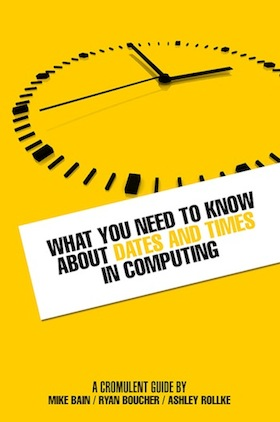
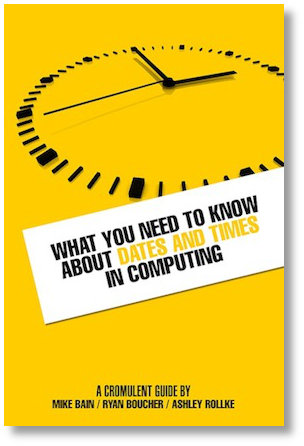
manually add drop shadow to image in gimp

diff --git a/index.html b/index.html
@@ -21,16 +21,19 @@
     <h1 class="header">Cromulent Publishing</h1>
     <h2>Buy our first book</h2>
 
-    <img src= "./dt_yellow.jpeg" class="shadowed"></img>
+    <img src="./dt_yellow.jpeg"
+    title="As you can probably tell by the title, this book explains what you need to know about dates and times in computing. The sole purpose of this book is to quickly get you up to speed on this ubiquitous and commonly misunderstood topic.
+
+This is the first in a series of Cromulent Guides. We produce concise easy to read guide(s) about technical topics. The size and price of each guide is about the same as a chapter from a normal book, so you only have to buy the bits you need at the time."></img>
 
     <h2>
-      <a href="#" target="_blank">pdf $3.50</a>
+      <a href="#">pdf $3.50</a>
      |
-      <a href="#" target="_blank">book $7.50</a>
+      <a href="#">book $7.50</a>
     </h2>
   </div>
   <div class="footer">
-    Almost silent <a href="http://twitter.com/CromulentPub">twitter</a> | Spam free <a href="http://eepurl.com/xinnr">mailing list</a>
+    Almost silent <a href="http://twitter.com/CromulentPub" >twitter</a> | Spam free <a href="http://eepurl.com/xinnr">mailing list</a>
   <div>
   <script>
     (function(i,s,o,g,r,a,m){i['GoogleAnalyticsObject']=r;i[r]=i[r]||function(){

diff --git a/cpstyle.css b/cpstyle.css
@@ -31,12 +31,3 @@ body {
   margin-right: auto;
   margin-left: auto;
 }
-
-.shadowed {
-  -webkit-filter: drop-shadow(8px 8px 12px rgba(0,0,0,0.5));
-  filter: url(#drop-shadow);
-  -ms-filter: "progid:DXImageTransform.Microsoft.Dropshadow(OffX=12, OffY=12,
-  Color='#444')";
-  filter: "progid:DXImageTransform.Microsoft.Dropshadow(OffX=12, OffY=12,
-  Color='#444')";
-}
